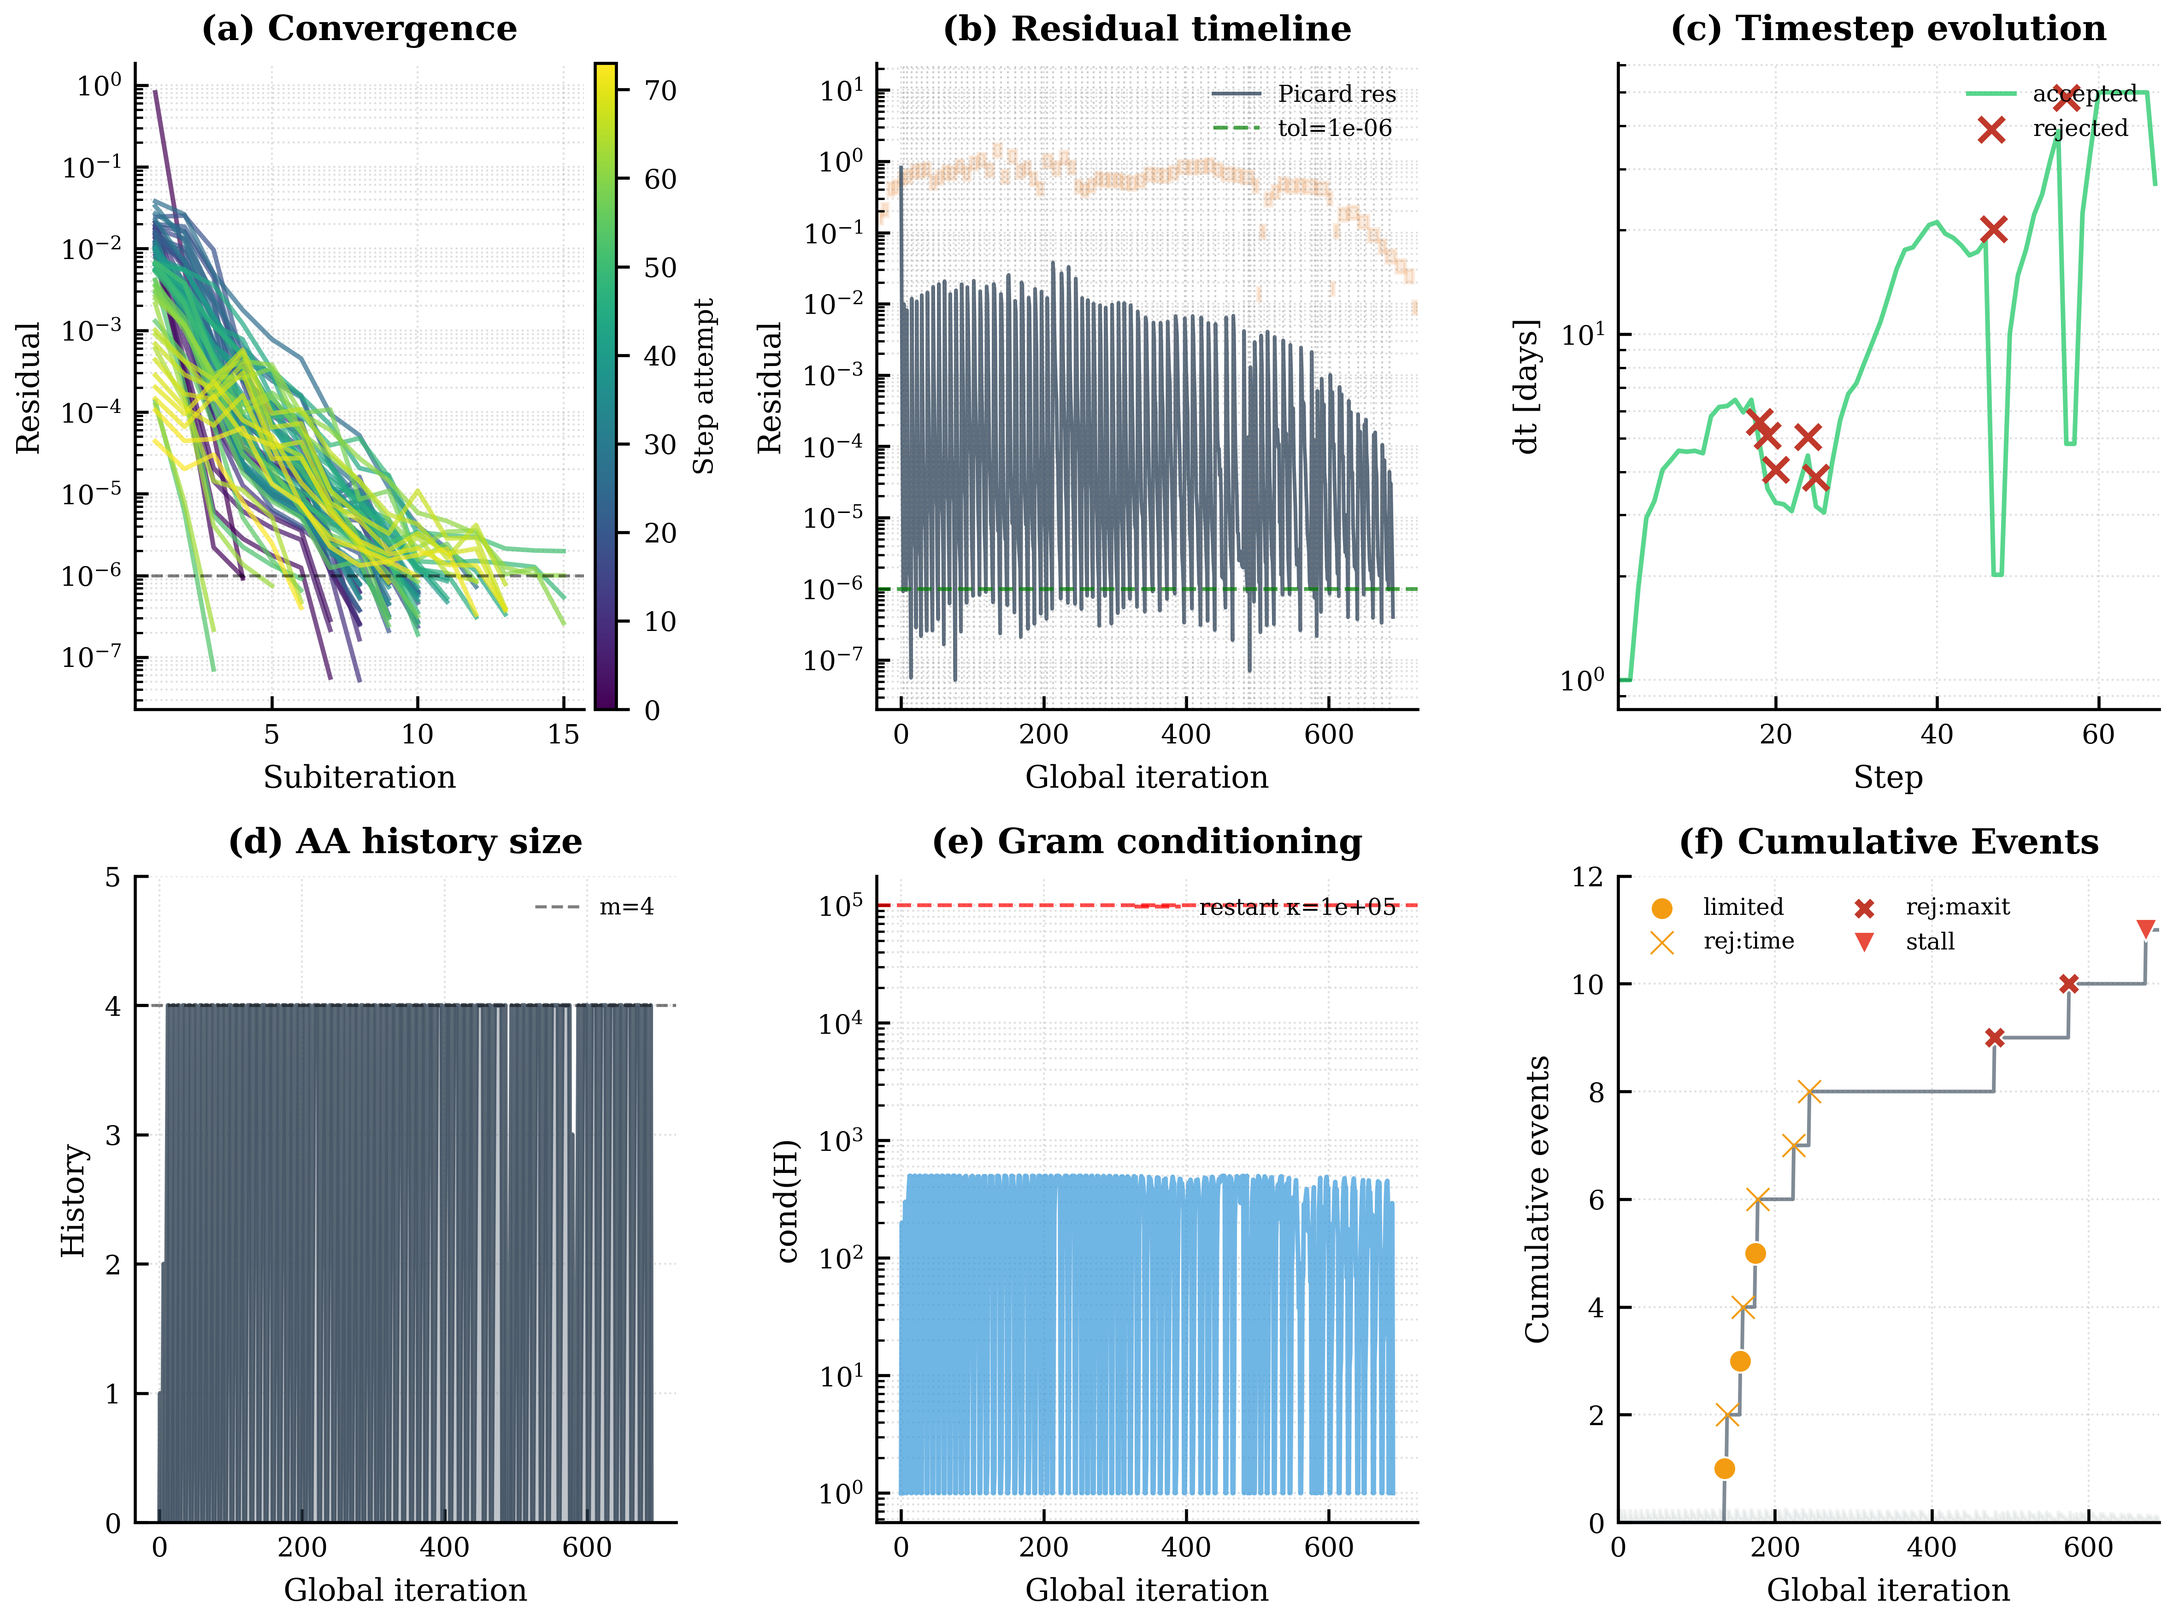
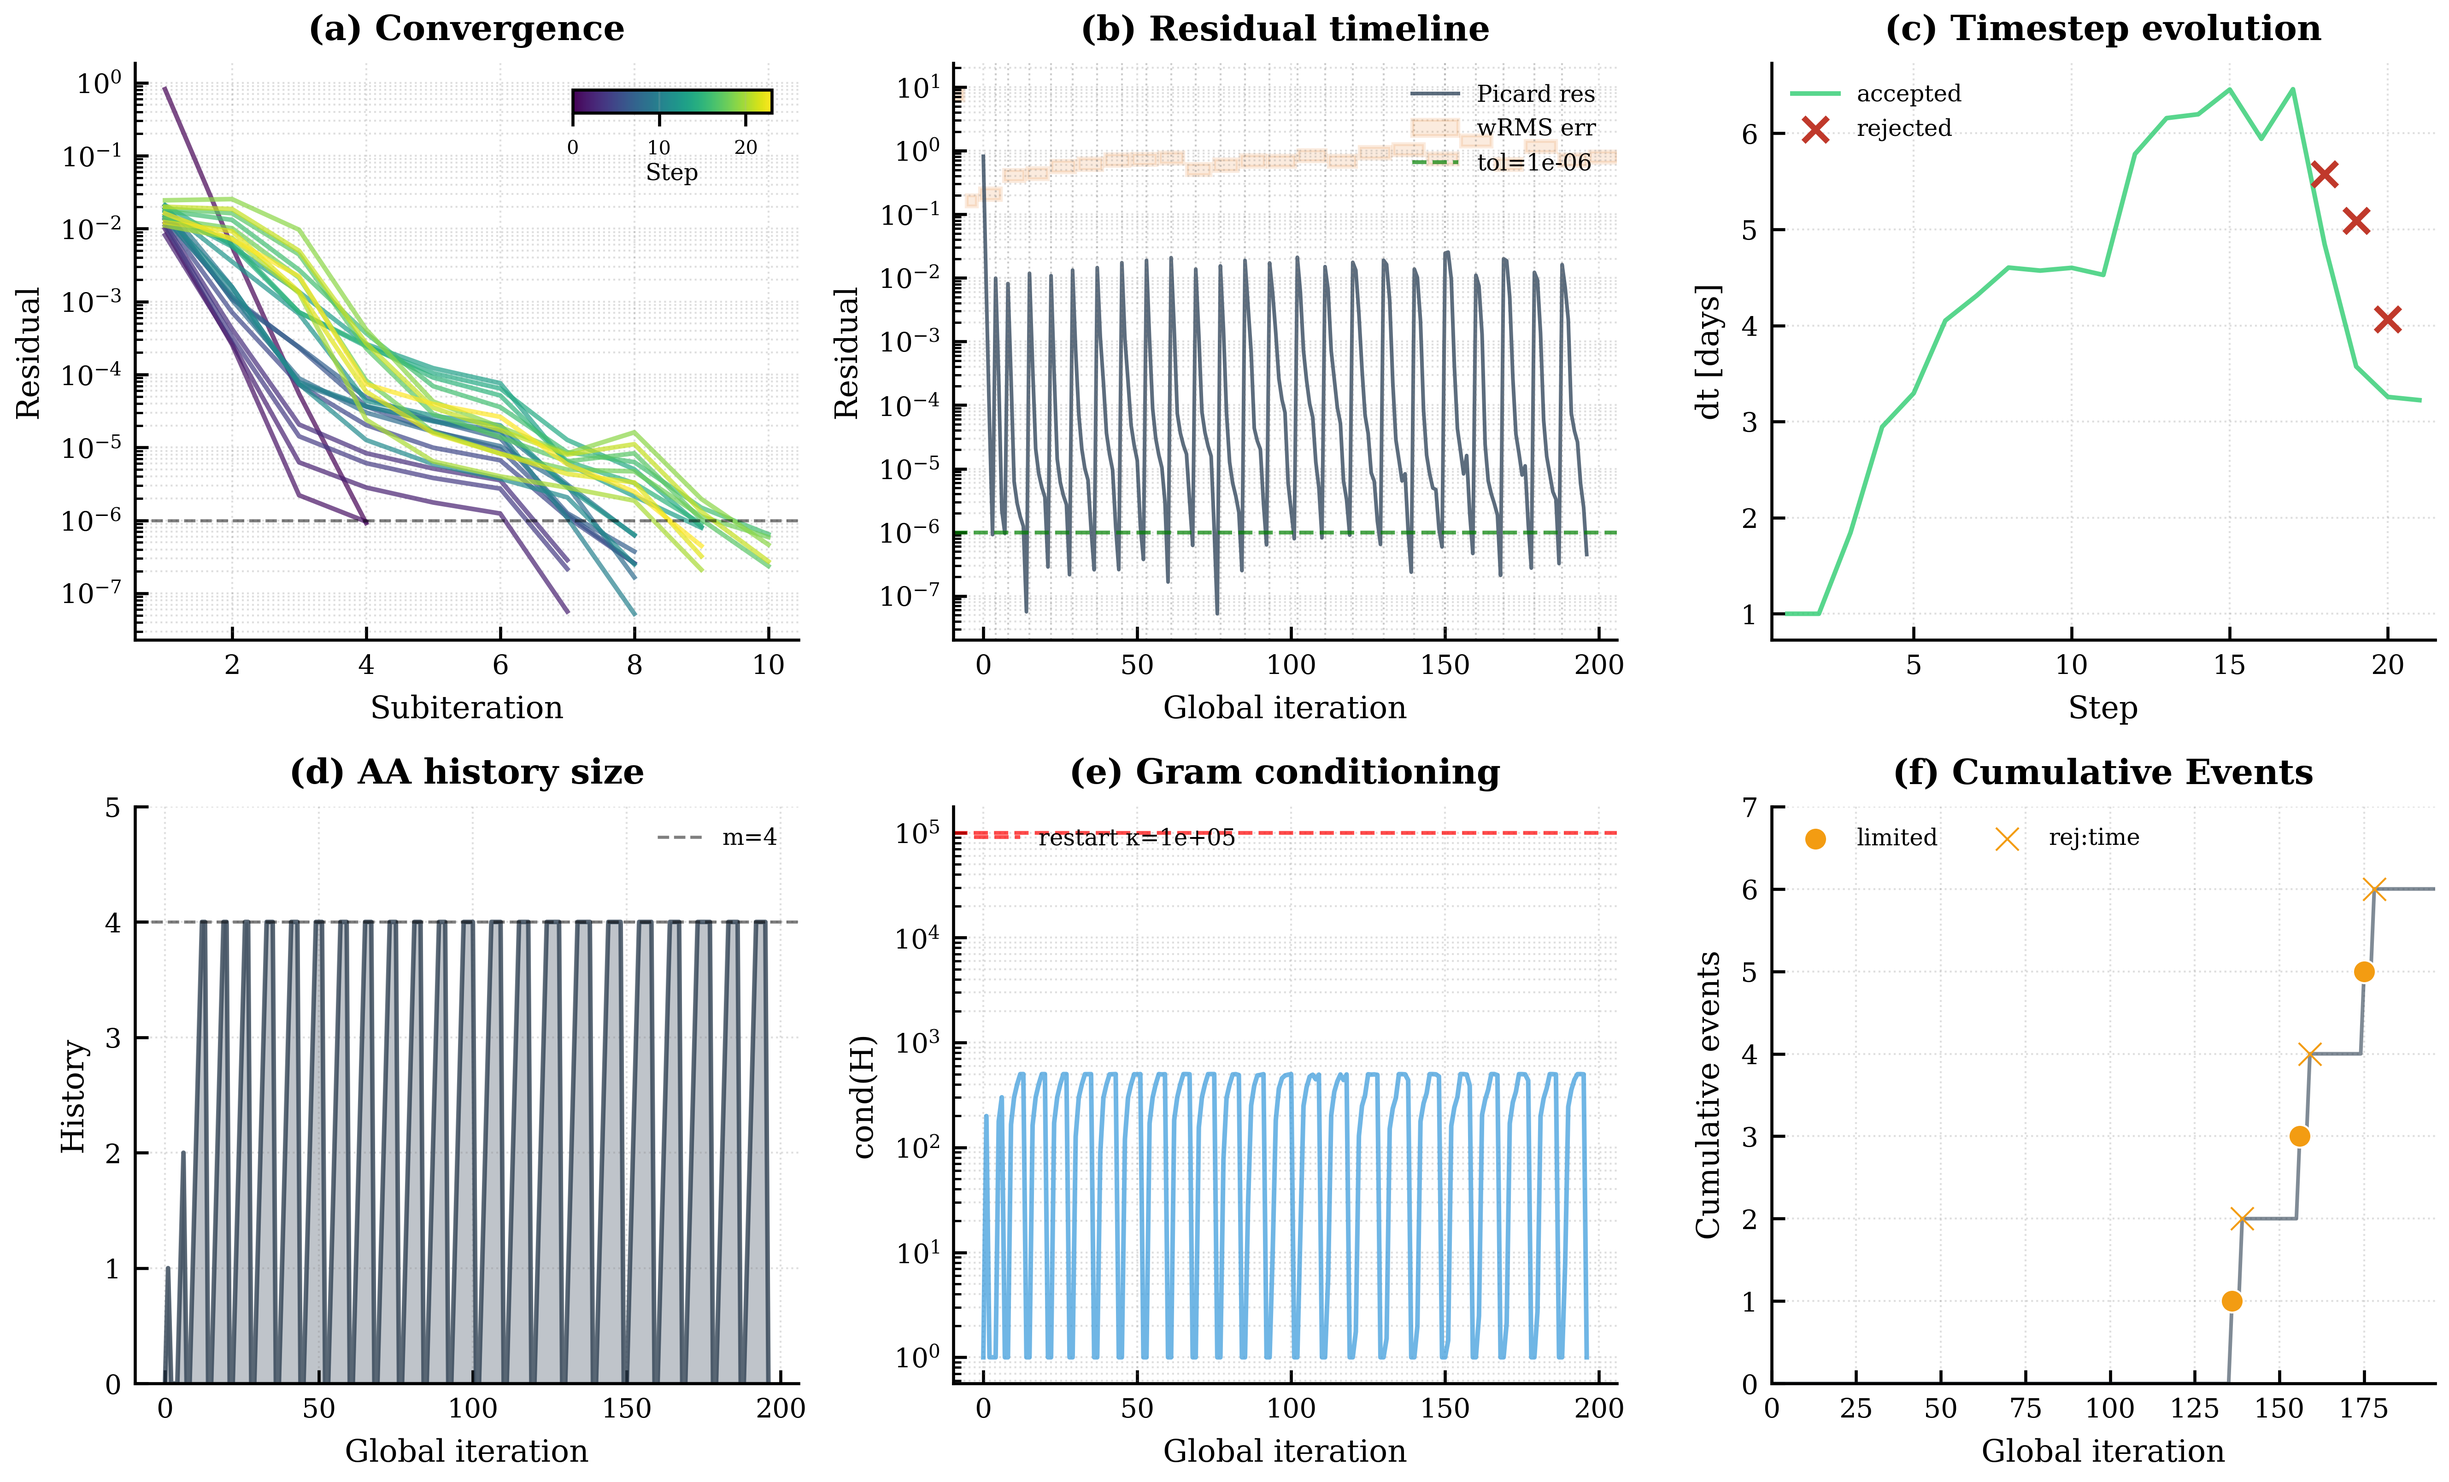
Refactor anderson diagnostic plotting: update colorbar positioning, adjust legend locations, and modify output file naming

diff --git a/analysis/anderson_diagnostic_plot.py b/analysis/anderson_diagnostic_plot.py
@@ -32,6 +32,7 @@ import numpy as np
 import pandas as pd
 from matplotlib.cm import ScalarMappable
 from matplotlib.colors import Normalize
+from mpl_toolkits.axes_grid1.inset_locator import inset_axes
 
 from analysis.plot_utils import (
     FIGSIZE_DOUBLE_COLUMN,
@@ -210,12 +211,13 @@ def plot_convergence(ax: plt.Axes, subiters: pd.DataFrame, config: dict, steps_d
     coupling_tol = solver_cfg.get("coupling_tol", 1e-6)
     ax.axhline(coupling_tol, color="k", linestyle="--", linewidth=0.8, alpha=0.5)
 
-    # Add colorbar for step progression
+    # Add horizontal colorbar inside plot for step progression
     sm = ScalarMappable(cmap=cmap, norm=norm)
     sm.set_array([])
-    cbar = ax.figure.colorbar(sm, ax=ax, pad=0.02, aspect=30)
-    cbar.set_label("Step attempt", fontsize=7)
-    cbar.ax.tick_params(labelsize=7)
+    cax = inset_axes(ax, width="30%", height="4%", loc="upper right", borderpad=1.0)
+    cbar = ax.figure.colorbar(sm, cax=cax, orientation="horizontal")
+    cbar.set_label("Step", fontsize=6, labelpad=1)
+    cbar.ax.tick_params(labelsize=5)
 
     setup_axis_style(ax, xlabel="Subiteration", ylabel="Residual", title="(a) Convergence", loglog=False)
 
@@ -243,9 +245,9 @@ def plot_dt_evolution(ax: plt.Axes, steps_df: pd.DataFrame) -> None:
     elif "converged" in steps_df.columns:
         rejected_mask = steps_df["converged"].values == 0
 
-    # Plot accepted steps
+    # Plot accepted steps (linear scale for even ticks)
     accepted_mask = ~rejected_mask
-    ax.semilogy(
+    ax.plot(
         step_nums[accepted_mask],
         dt_vals[accepted_mask],
         color="#2ecc71",
@@ -268,7 +270,7 @@ def plot_dt_evolution(ax: plt.Axes, steps_df: pd.DataFrame) -> None:
         )
 
     ax.set_xlim(step_nums.min() - 0.5, step_nums.max() + 0.5)
-    ax.legend(loc="upper right", fontsize=6, framealpha=0.8, frameon=False)
+    ax.legend(loc="upper left", fontsize=6, framealpha=0.8, frameon=False)
     setup_axis_style(ax, xlabel="Step", ylabel="dt [days]", title="(c) Timestep evolution", loglog=False)
 
 
@@ -279,13 +281,6 @@ def plot_events_unified(ax: plt.Axes, subiters: pd.DataFrame, global_idx: np.nda
     Shows cumulative event count with markers for different event types.
     """
     n_total = len(subiters)
-    
-    # Background: residual magnitude (semi-log)
-    if "proj_res" in subiters.columns:
-        res = subiters["proj_res"].values
-        res_log = np.log10(np.clip(res, 1e-12, None))
-        res_norm = (res_log - res_log.min()) / max(res_log.max() - res_log.min(), 1e-10)
-        ax.fill_between(global_idx, 0, res_norm * 0.3, alpha=0.1, color="#7f8c8d", label=None)
     
     # Collect all events: (global_idx, event_type, color, marker)
     events = []
@@ -554,7 +549,7 @@ def plot_conditioning(ax: plt.Axes, subiters: pd.DataFrame, global_idx: np.ndarr
                label=f"restart κ={cond_threshold:.0e}")
 
     setup_axis_style(ax, xlabel="Global iteration", ylabel="cond(H)", title="(e) Gram conditioning", loglog=False)
-    ax.legend(loc="upper right", fontsize=6, framealpha=0.8, frameon=False)
+    ax.legend(loc="upper left", fontsize=6, framealpha=0.8, frameon=False)
 
 
 def plot_history_size(ax: plt.Axes, subiters: pd.DataFrame, global_idx: np.ndarray, config: dict) -> None:
@@ -628,11 +623,12 @@ def plot_residual_timeline(
             if len(step_row) > 0:
                 err = step_row["error_norm"].values[0]
                 if err > 0 and np.isfinite(err):
-                    # Draw horizontal bar at error level
+                    # Draw horizontal bar at error level (label only first one for legend)
+                    lbl = "wRMS err" if i == 0 else None
                     ax.axhspan(err * 0.8, err * 1.2, 
                                xmin=(global_idx[sc_start] - global_idx[0]) / max(global_idx[-1] - global_idx[0], 1),
                                xmax=(global_idx[sc_end - 1] - global_idx[0]) / max(global_idx[-1] - global_idx[0], 1),
-                               alpha=0.15, color="#e67e22", zorder=0)
+                               alpha=0.15, color="#e67e22", zorder=0, label=lbl)
     
     # Vertical lines at step boundaries (skip first)
     for sc in step_changes[1:]:
@@ -684,8 +680,9 @@ def main() -> None:
     global_idx = create_global_index(subiters)
 
     # Create figure with 6 subplots (2x3 grid)
+    # Use 3:2 aspect ratio for equal-sized square subplots
     apply_style()
-    fig, axes = plt.subplots(2, 3, figsize=FIGSIZE_DOUBLE_COLUMN)
+    fig, axes = plt.subplots(2, 3, figsize=(9.0, 5.5))
 
     # Row 1: Convergence + Residual timeline + dt evolution
     plot_convergence(axes[0, 0], subiters, config, steps)

diff --git a/run_anderson_sweep.py b/run_anderson_sweep.py
@@ -20,6 +20,7 @@ Outputs:
 from __future__ import annotations
 
 import copy
+import shutil
 from pathlib import Path
 
 from mpi4py import MPI
@@ -131,19 +132,28 @@ def main() -> None:
     box = params["box"]
     
     # Fixed mesh resolution for acceleration comparison
-    FIXED_N = 24
+    FIXED_N = 16
     
     # Sweep parameters
     accel_types = ["picard", "anderson"]
-    dt_values = [10.0]
+    dt_values = [50., 25, 10.]
     
     # Define sweep
+    output_dir = Path("results/anderson_sweep")
+    
+    # Clear output directory (rank 0 only)
+    if comm.rank == 0:
+        if output_dir.exists():
+            shutil.rmtree(output_dir)
+            logger.info(f"Cleared existing output directory: {output_dir}")
+    comm.Barrier()
+    
     sweep = ParameterSweep(
         params={
             "accel_type": accel_types,
             "dt_days": dt_values,
         },
-        base_output_dir=Path("results/anderson_sweep"),
+        base_output_dir=output_dir,
         metadata={
             "description": "Anderson vs Picard acceleration comparison",
             "fixed_N": FIXED_N,

diff --git a/analysis/convergence_plot.py b/analysis/convergence_plot.py
@@ -320,7 +320,7 @@ if __name__ == "__main__":
     apply_style()
     
     xlsx_file = Path("analysis/convergence_analysis/convergence_data.xlsx")
-    output_file = Path("manuscript/images/convergence_full_plot.png")
+    output_file = Path("manuscript/images/convergence_plot.png")
 
     if not xlsx_file.exists():
         print(f"ERROR: {xlsx_file} not found!")
